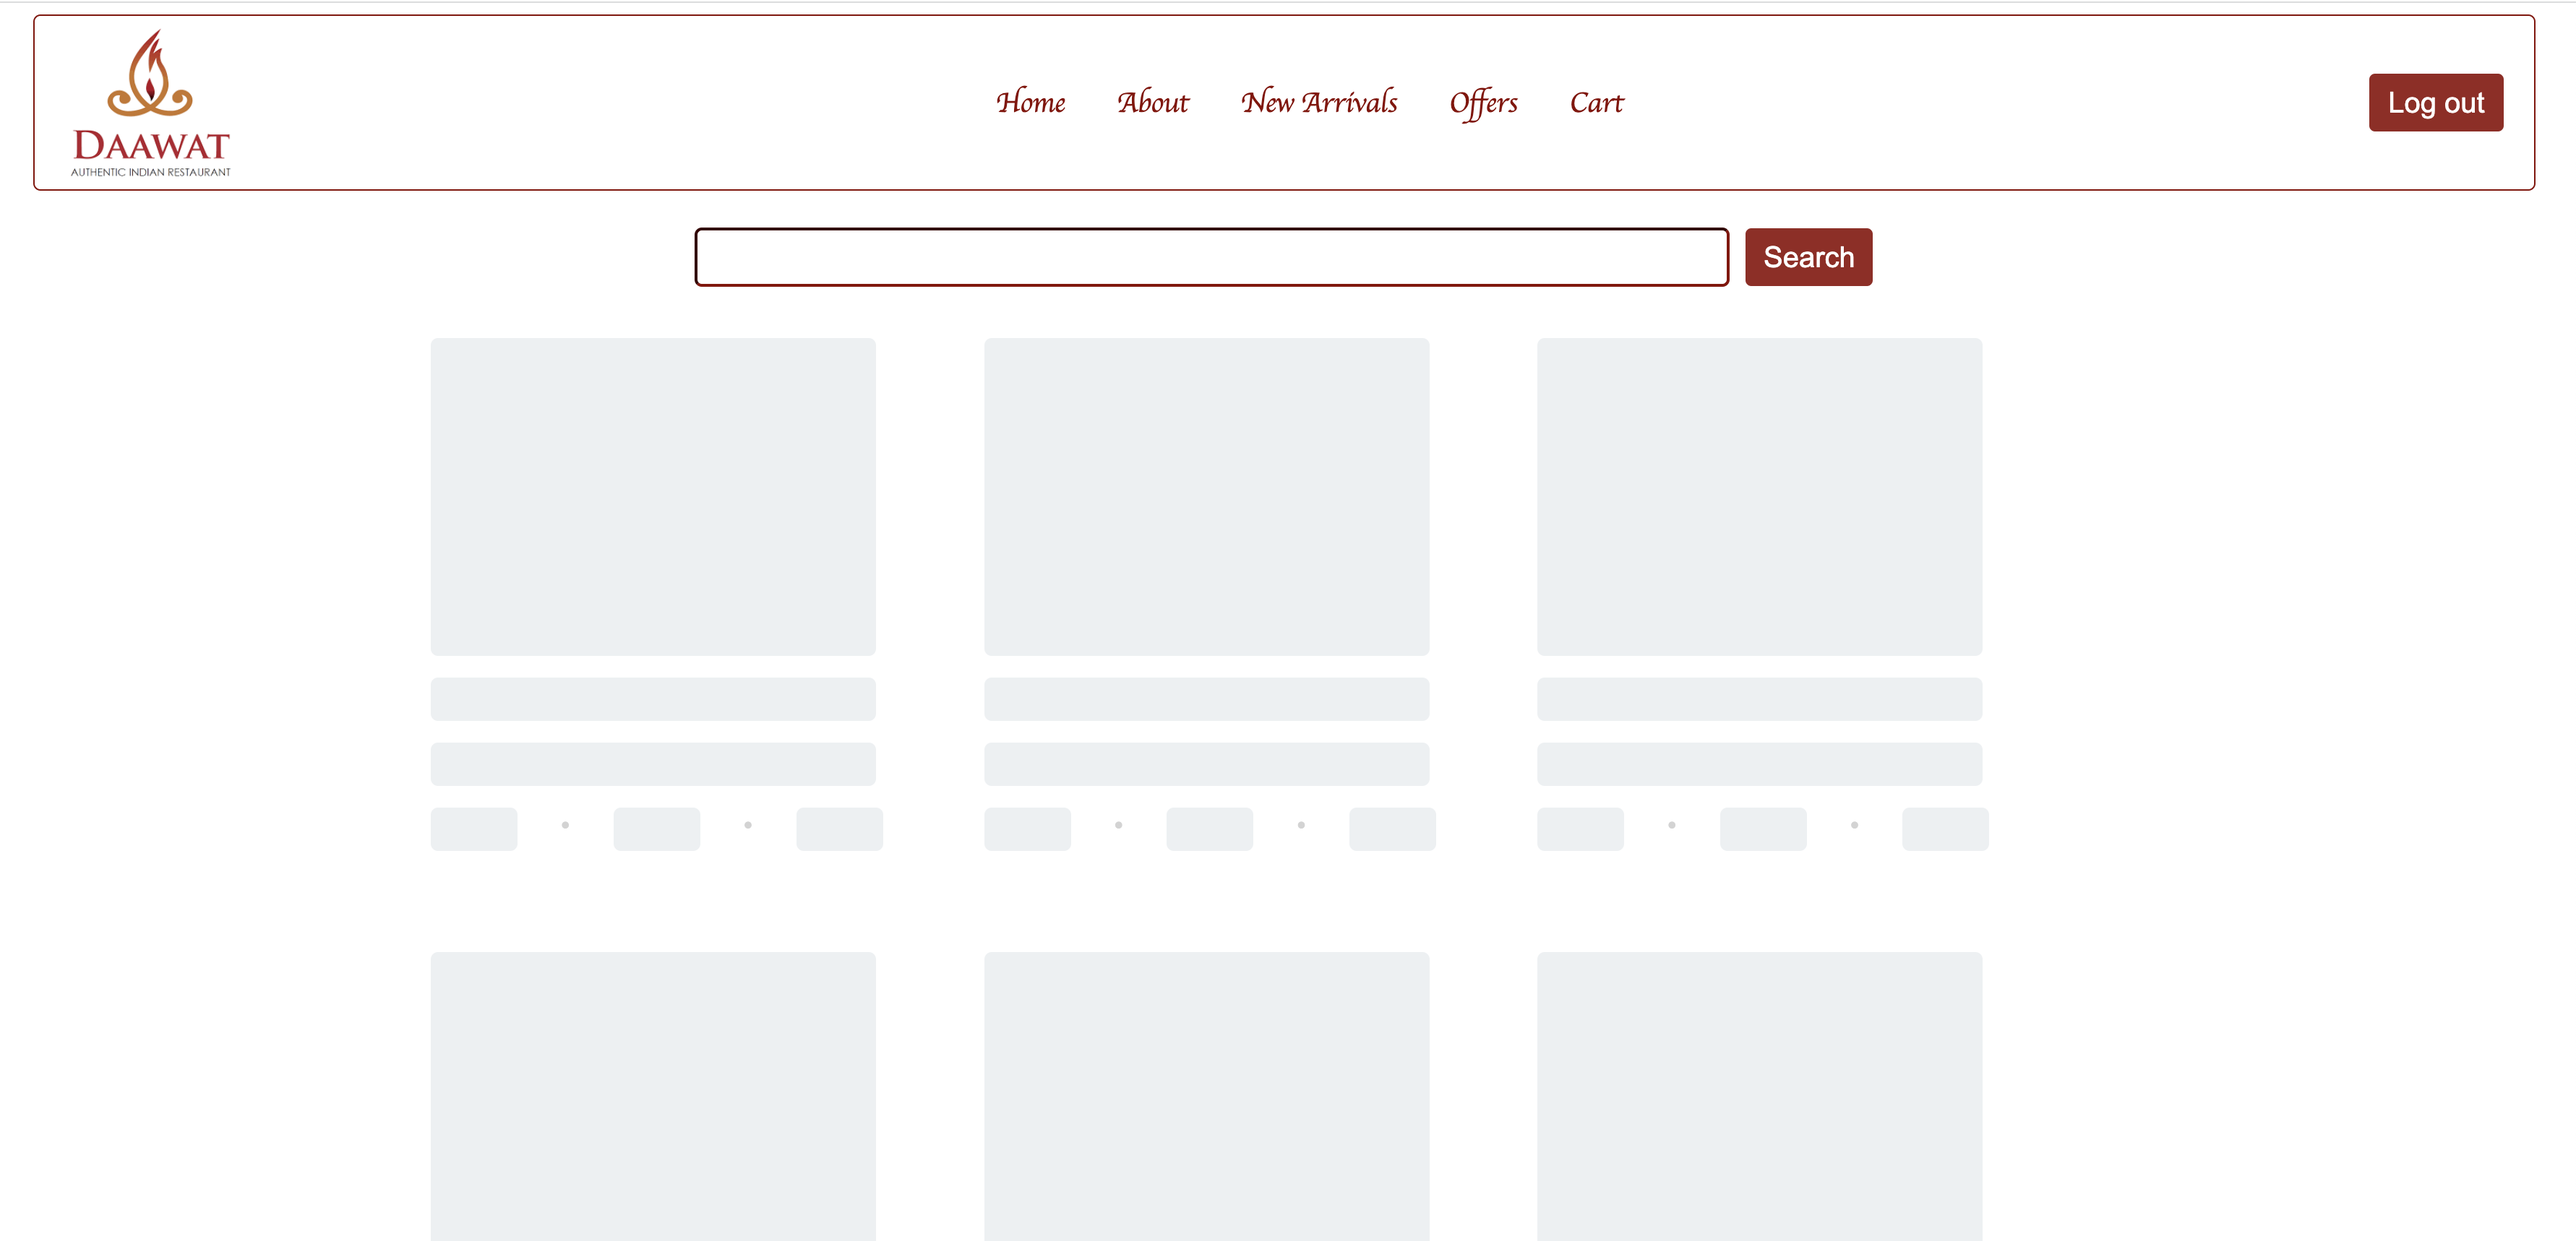
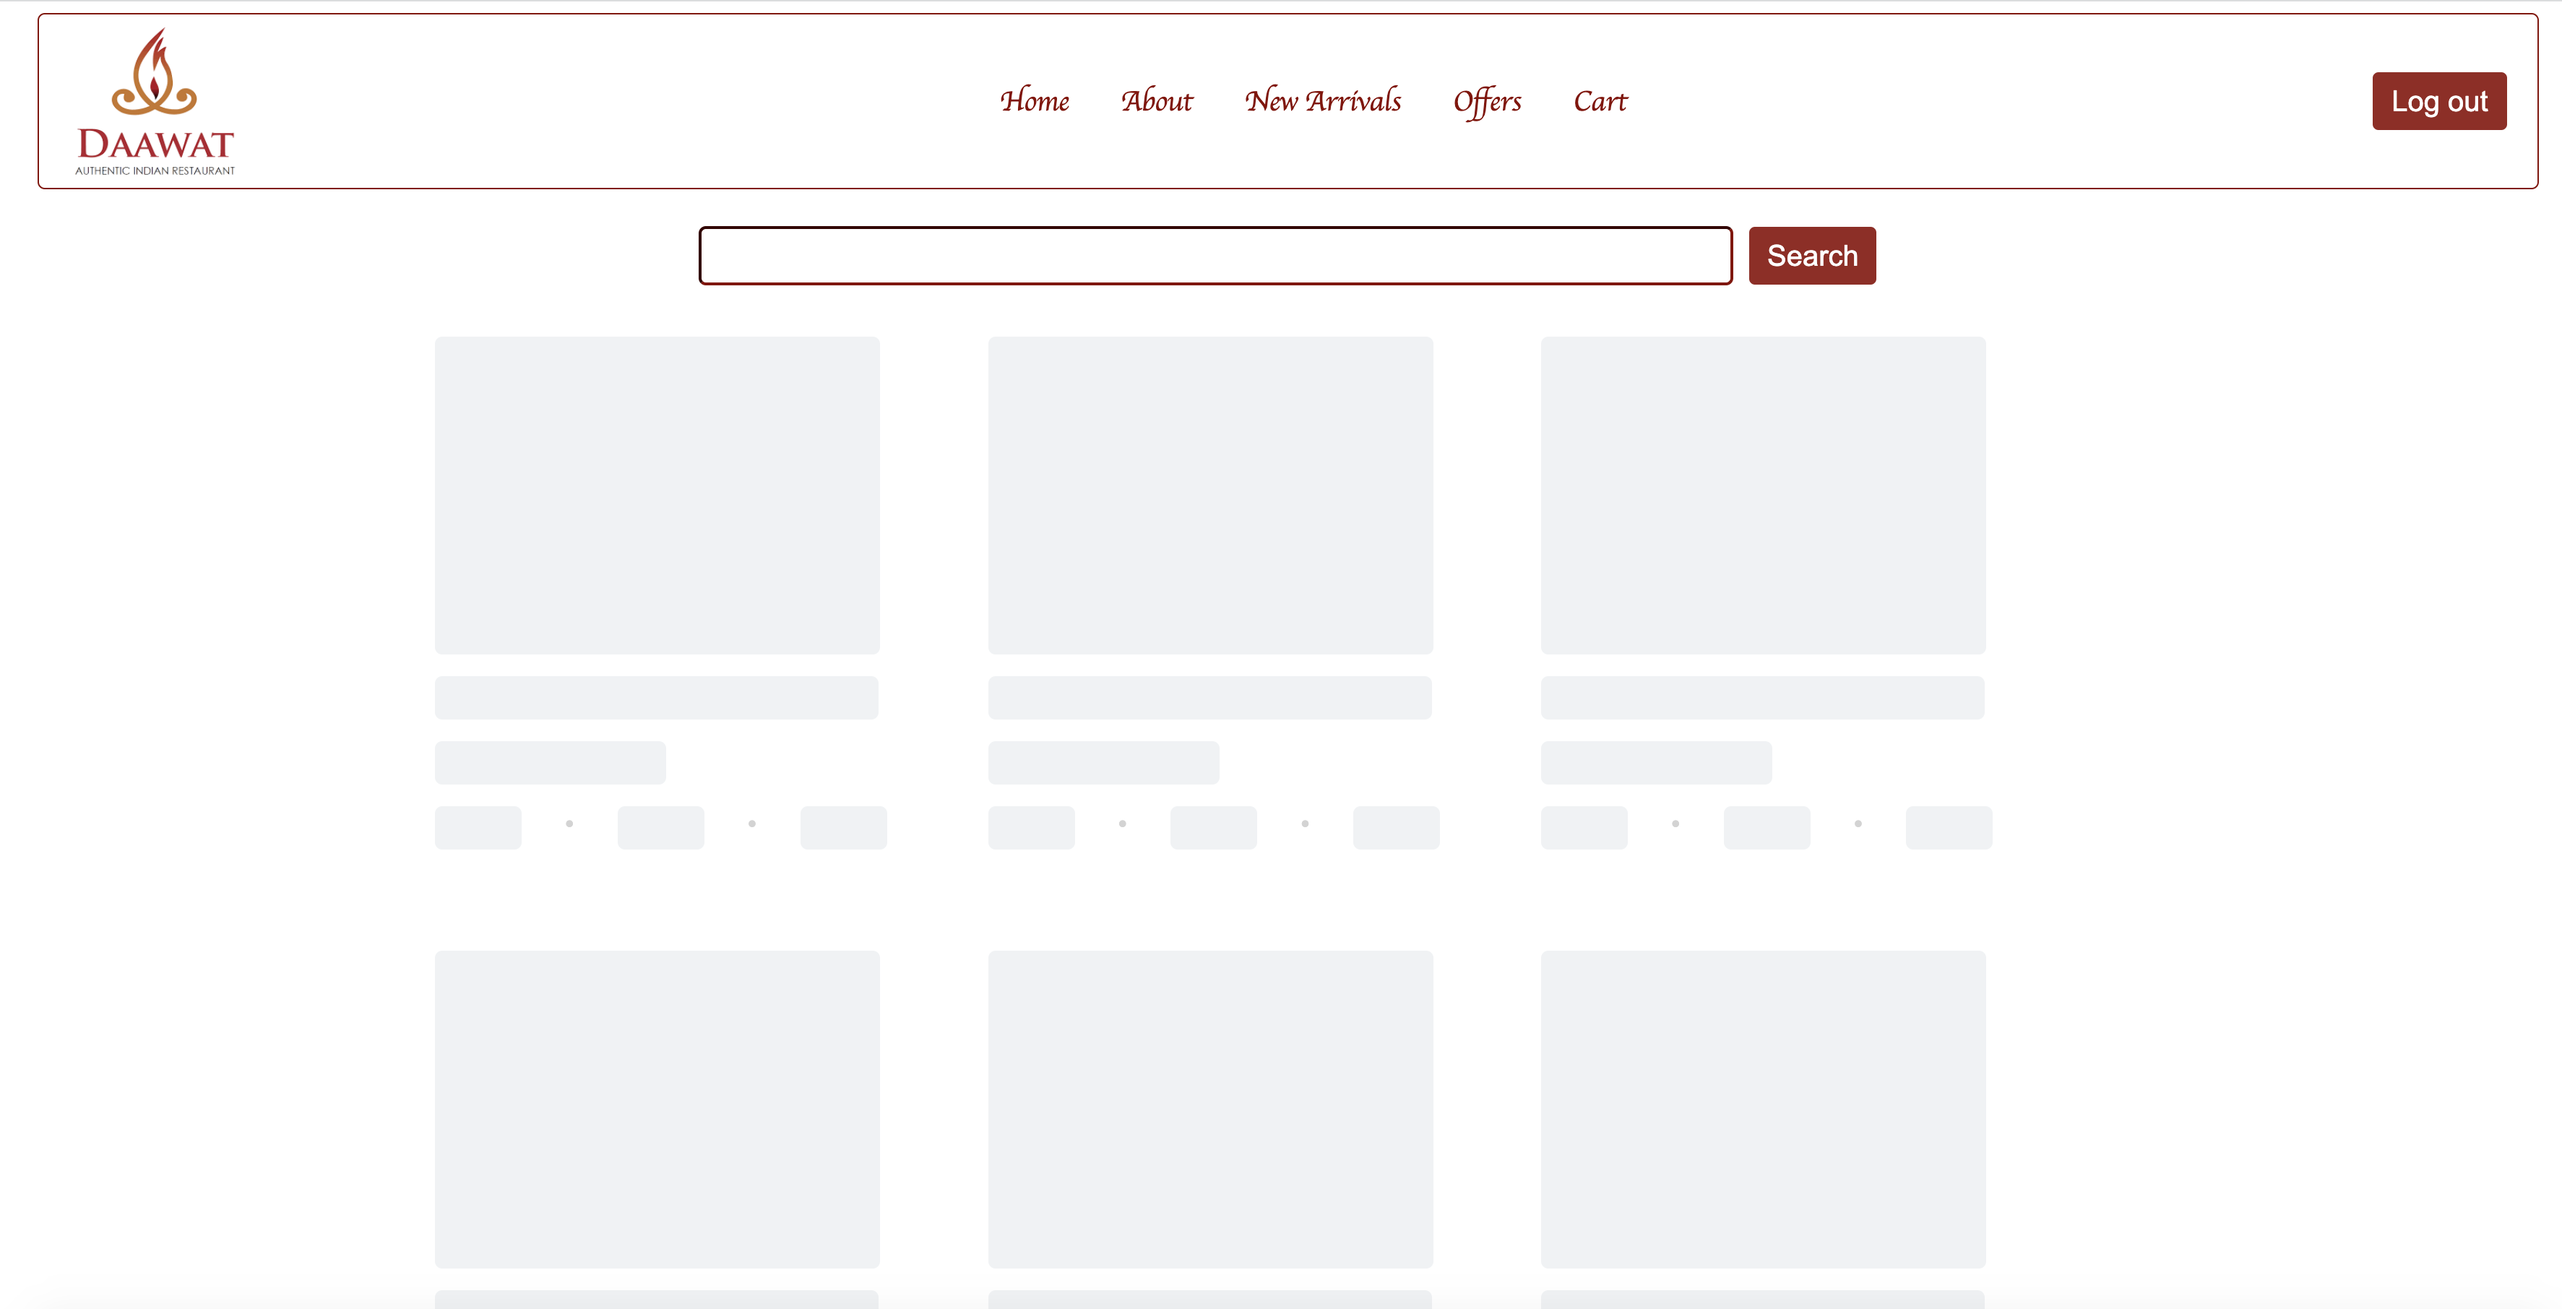
Update shimmer content width

Changed region(s): [[0.0, 0.0, 0.9927, 0.1542], [0.2792, 0.1542, 0.7445, 0.2468], [0.3723, 0.0617, 0.6514, 0.0925]]

diff --git a/assignment6/component/ShimmerSkeleton.jsx b/assignment6/component/ShimmerSkeleton.jsx
@@ -5,8 +5,8 @@ const ShimmerSkeleton = () => {
     return (
         <div className="shimmer-restaurant-container">
             <div className="shimmer-image-background"/>
-            <div className="shimmer-content" />
-            <div className="shimmer-content" />
+            <div className="shimmer-main-content content1" />
+            <div className="shimmer-main-content content2" />
             <div className="shimmer-restaurant-info-container">
                 <div className="shimmer-sub-content" />
                 <div className="shimmer-separator">•</div>

diff --git a/assignment6/styles/shimmerLoader.css b/assignment6/styles/shimmerLoader.css
@@ -12,13 +12,20 @@
     animation: shimmer 1s linear infinite alternate;
 }
 
-.shimmer-content {
+.shimmer-main-content {
     margin-top: 15px;
-    width: 308px;
     height: 30px;
     background-color: lightgrey;
     border-radius: 5px;
     animation: shimmer 1s linear infinite alternate;
+}
+
+.content1 {
+    width: 307px;
+}
+
+.content2 {
+    width: 160px;
 }
 
 .shimmer-restaurant-info-container {
